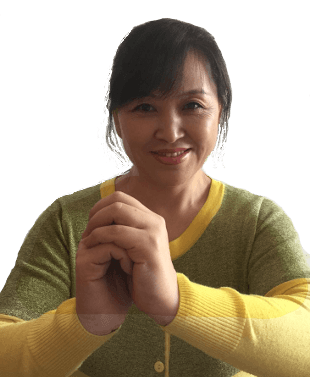
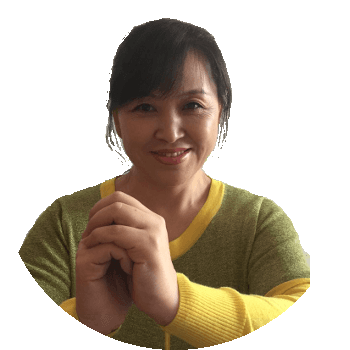
final

diff --git a/app/style.css b/app/style.css
@@ -1,6 +1,7 @@
 * {
   margin: 0 auto;
   box-sizing: border-box;
+  font-family: "Microsoft YaHei","黑体","宋体",sans-serif;
 }
 
 html {
@@ -32,9 +33,9 @@ body {
 .moon {
   background: url(./src/assets/moon.png);
   background-size: 100% 100%;
-  width: 350px;
-  height: 350px;
-  border-radius: 175px;
+  width: 100px;
+  height: 100px;
+  border-radius: 50%;
   position: relative;
   margin: 50px 0 100px 50px;
   animation: moonrise 15s;
@@ -80,8 +81,8 @@ body {
   width: 0;
   height: 0;
   position: absolute;
-  right: 50px;
-  top: 100px;
+  right: 20px;
+  top: 80px;
   animation: pomeout 5s 6s forwards;
   -webkit-animation: pomeout 5s 6s forwards;
 }
@@ -92,8 +93,8 @@ body {
   width: 0;
   height: 0;
   position: absolute;
-  right: 300px;
-  top: 300px;
+  right: 90px;
+  top: 160px;
   animation: pomeout 5s 11.5s forwards;
   -webkit-animation: pomeout 5s 11.5s forwards;
 }
@@ -104,8 +105,8 @@ body {
     height: 0px;
   }
   100% {
-    width: 200px;
-    height: 1000px;
+    width: 60px;
+    height: 300px;
   }
 }
 @-webkit-keyframes pomeout {
@@ -114,8 +115,8 @@ body {
     height: 0px;
   }
   100% {
-    width: 200px;
-    height: 1000px;
+    width: 60px;
+    height: 300px;
   }
 }
 
@@ -125,7 +126,7 @@ body {
   top: 0;
   left: 0;
   opacity: 0;
-  z-index: 999;
+  z-index: 2;
   position: absolute;
   overflow: hidden;
   animation: secondup 10s 20s forwards;
@@ -152,18 +153,28 @@ body {
   }
 }
 
+.top {
+  width: 100%;
+  height: 200px;
+  background: url(./src/assets/topbg.png) no-repeat;
+  background-size: 200%;
+  position: relative;
+  top: 0;
+  left: 0;
+}
+
 .bless {
   width: 100%;
-  height: 800px;
-  position: absolute;
-  bottom: 0;
+  height: 400px;
+  position: relative;
+  margin-top: 0;
   overflow: hidden;
 }
 
 .bless-p {
   position: absolute;
   width: 100%;
-  bottom: -1500px;
+  bottom: -750px;
   text-align: center;
   animation: blessup 30s linear 30s infinite;
   -webkit-animation: blessup 30s linear 30s infinite;
@@ -172,13 +183,14 @@ body {
 .bless-p>div {
   position: relative;
   background: url(./src/assets/zqyy.png) no-repeat center;
+  background-size: 80%;
   width: 100%;
-  height: 800px;
+  height: 400px;
 }
 
 @keyframes blessup {
   from {
-    bottom: -1500px;
+    bottom: -750px;
   }
   to {
     bottom: 0;
@@ -187,7 +199,7 @@ body {
 
 @-webkit-keyframes blessup {
   from {
-    bottom: -1500px;
+    bottom: -750px;
   }
   to {
     bottom: 0;
@@ -196,88 +208,106 @@ body {
 
 
 .bless-p>p {
-  font: 50px/1.4 bold;
-  font-family: "Microsoft YaHei","黑体","宋体",sans-serif;
+  font: 25px/1.4 bold;
   color: yellow;
   position: relative;
 }
 
-.img-panel {
+.top-panel {
+  display: inline-block;
+  position: relative;
+  height: 100px;
+  width: calc(100% - 100px);
+  width: -webkit-calc(100% - 100px);
+  margin: 50px 0 0 50px;
+  border-radius: 10px;
+  vertical-align: middle;
[2 lines of base64/hex data omitted]
+}
+
+.top-bless {
+  display: inline-block;
   position: absolute;
-  top: 50px;
-  left: 50px;
-  border-radius: 175px;
-  height: 350px;
-  width: 350px;
+  top: 0;
+  vertical-align: top;
+  text-align: center;
+  font-size: 20px;
+  color: yellow;
+}
+
+.top-bless-1 {
+  left: 130px;
+  padding-top: 25px;
+  animation: toptoggle 20s ease-in 40s infinite;
+  -webkit-animation: toptoggle 20s ease-in 40s infinite;:
+}
+
+.top-bless-2 {
+  line-height: 100px;
+  left: 100px;
+  font-size: 18px;
+  opacity: 0;
+  animation: toptoggle 20s ease-in 50s infinite;
+  -webkit-animation: toptoggle 20s ease-in 50s infinite;
+}
+
+.img-panel {
+  display: inline-block;
+  position: relative;
+  margin: 0;
+  border-radius: 50%;
+  height: 100px;
+  width: 100px;
+  background: rgba(231, 123, 99, 0.6);
   overflow: hidden;
 }
 
 .img-panel>img {
   position: absolute;
-  top: 50px;
-  left: 50px;
-  float: left;
+  height: 100px;
+  width: 100px;
+  top: 0;
+  left: 0;
 }
 
-.refresh {
-  font: 40px white;
-  position: fixed;
-  bottom: 30px;
-  right: 50px;
-  z-index: 1000;
+.img-1 {
+  animation: toptoggle 20s ease-in 40s infinite;
+  -webkit-animation: toptoggle 20s ease-in 40s infinite;
 }
 
-@media screen and (max-height: 800px) {
-  .moon {
-    width: 150px;
-    height: 150px;
+.img-2 {
+  opacity: 0;
+  animation: toptoggle 20s ease-in 50s infinite;
+  -webkit-animation: toptoggle 20s ease-in 50s infinite;
+}
+
+@keyframes toptoggle {
+  0% {
+    opacity: 1;
   }
-  @keyframes moonrise {
-    from {
-      margin-top: 200px;
-      margin-left: -100px;
-    }
-    to {
-      margin-top: 50px;
-      margin-left: 50px
-    }
+  50% {
+    opacity: 0;
   }
-  @-webkit-keyframes moonrise {
-    from {
-      margin-top: 200px;
-      margin-left: -100px;
-    }
-    to {
-      margin-top: 50px;
-      margin-left: 50px
-    }
+  100% {
+    opacity: 1;
   }
-  .hssmy {
-    top: 70px;
-    right: 300px;
+}
+
+@-webkit-keyframes toptoggle {
+  0% {
+    opacity: 1;
   }
-  .tygcs {
-    top: 170px;
-    right: 450px;
+  50% {
+    opacity: 0;
   }
-  @keyframes pomeout {
-    0% {
-      width: 0px;
-      height: 0px;
-    }
-    100% {
-      width: 100px;
-      height: 500px;
-    }
+  100% {
+    opacity: 1;
   }
-  @-webkit-keyframes pomeout {
-    0% {
-      width: 0px;
-      height: 0px;
-    }
-    100% {
-      width: 100px;
-      height: 500px;
-    }
-  }
+}
+
+.yh {
+  position: absolute;
+  bottom: 0;
+  left: 0;
 }

diff --git a/app/index.html b/app/index.html
@@ -2,6 +2,7 @@
 <html>
 <head>
   <meta charset="utf-8">
+  <meta name="viewport" content="width=device-width, initial-scale=1.0, maximum-scale=1.0, user-scalable=0">
   <link rel="stylesheet" href="./style.css">
   <title>zhongqiu</title>
 </head>
@@ -10,15 +11,21 @@
   <div class="home">
     <div class="sky">
       <div class="moon">
-        f
       </div>
     </div>
     <div class="hssmy"></div>
     <div class="tygcs"></div>
   </div>
   <div class="second">
-    <div class="img-panel">
-      <img src="./src/assets/wx.png" alt="王欣祝您\n中秋节快乐" />
+    <div class="top">
+      <div class="top-panel">
+        <div class="img-panel">
+          <img class="img-1" src="./src/assets/wx.png" alt="王欣祝您\n中秋节快乐" />
+          <img class="img-2" src="./src/assets/yb.png" alt="月饼吃不完" />
+        </div>
+        <div class="top-bless top-bless-1"><p>王欣祝您</p><p>中秋节快乐</p></div>
+        <div class="top-bless top-bless-2">香甜的月饼吃不完!</div>
+      </div>
     </div>
     <div class="bless">
       <div class="bless-p">
@@ -36,7 +43,7 @@
         <div class="bless-footer"></div>
       </div>
     </div>
+    <img class="yh" src="./src/assets/yh.png" alt="yh" />
   </div>
-  <a href="./index.html" class="refresh">重播</a>
 </body>
 </html>
